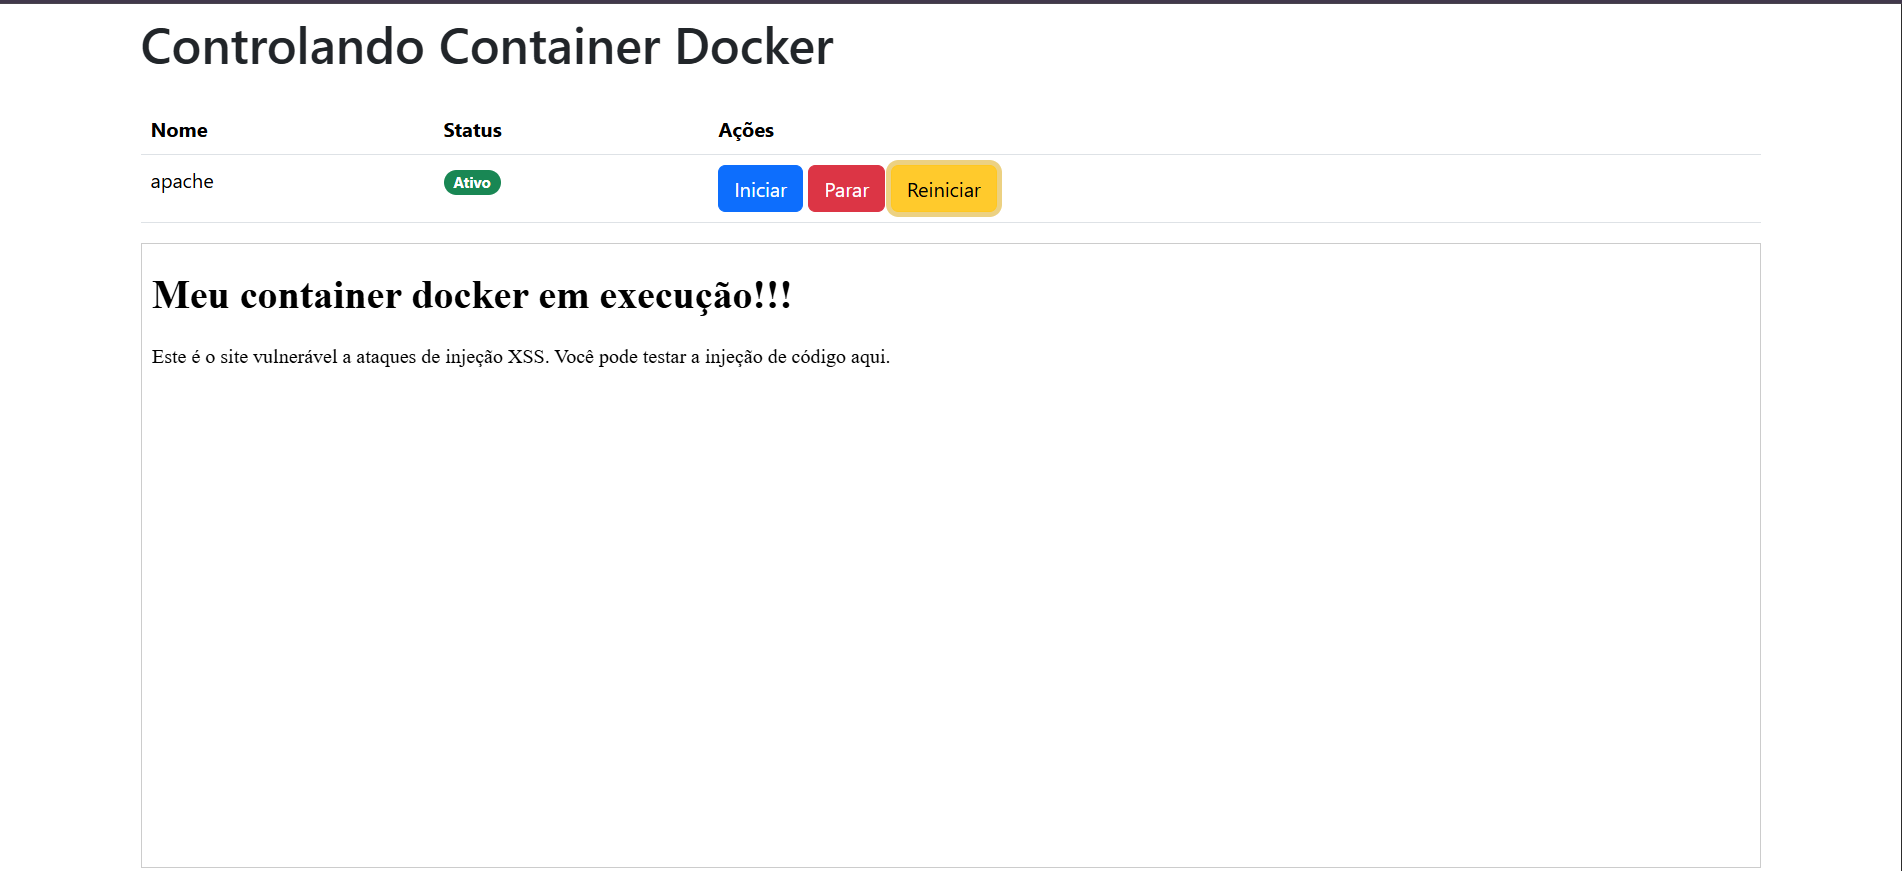
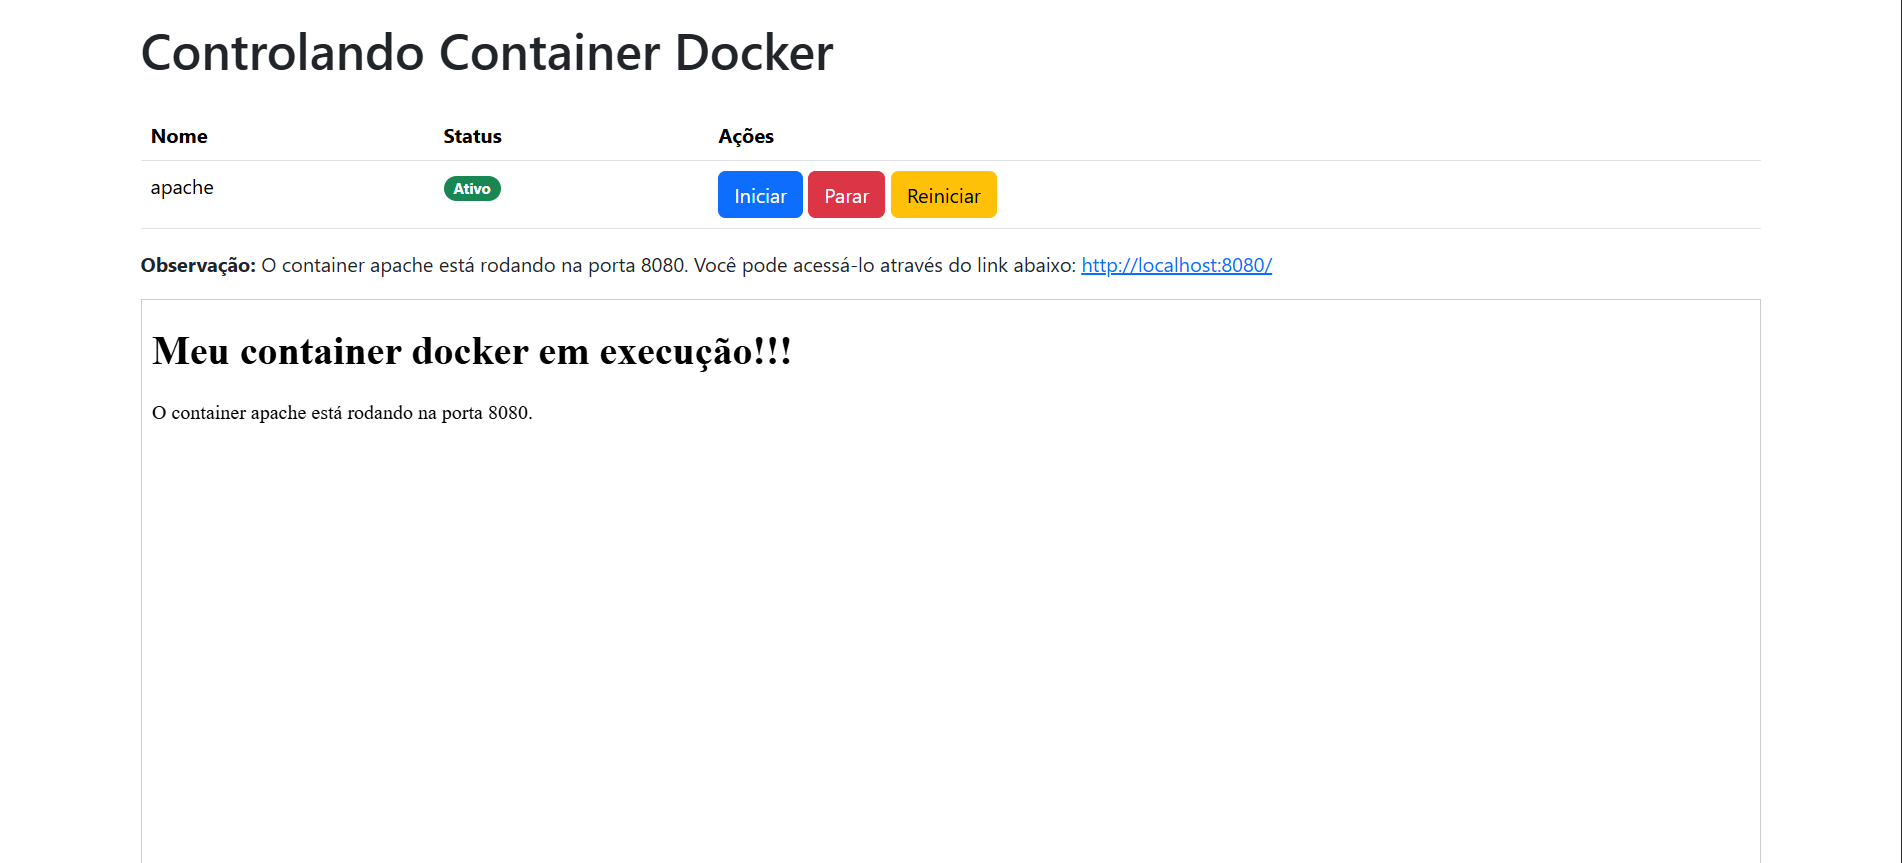
Add files via upload

diff --git a/public-html/index.html b/public-html/index.html
@@ -7,6 +7,6 @@
     </head>
     <body>
         <h1>Meu container docker em execução!!!</h1>
-        <p>Este é o site vulnerável a ataques de injeção XSS. Você pode testar a injeção de código aqui.</p>
+        <p>O container apache está rodando na porta 8080.</p>
     </body>
 </html>
